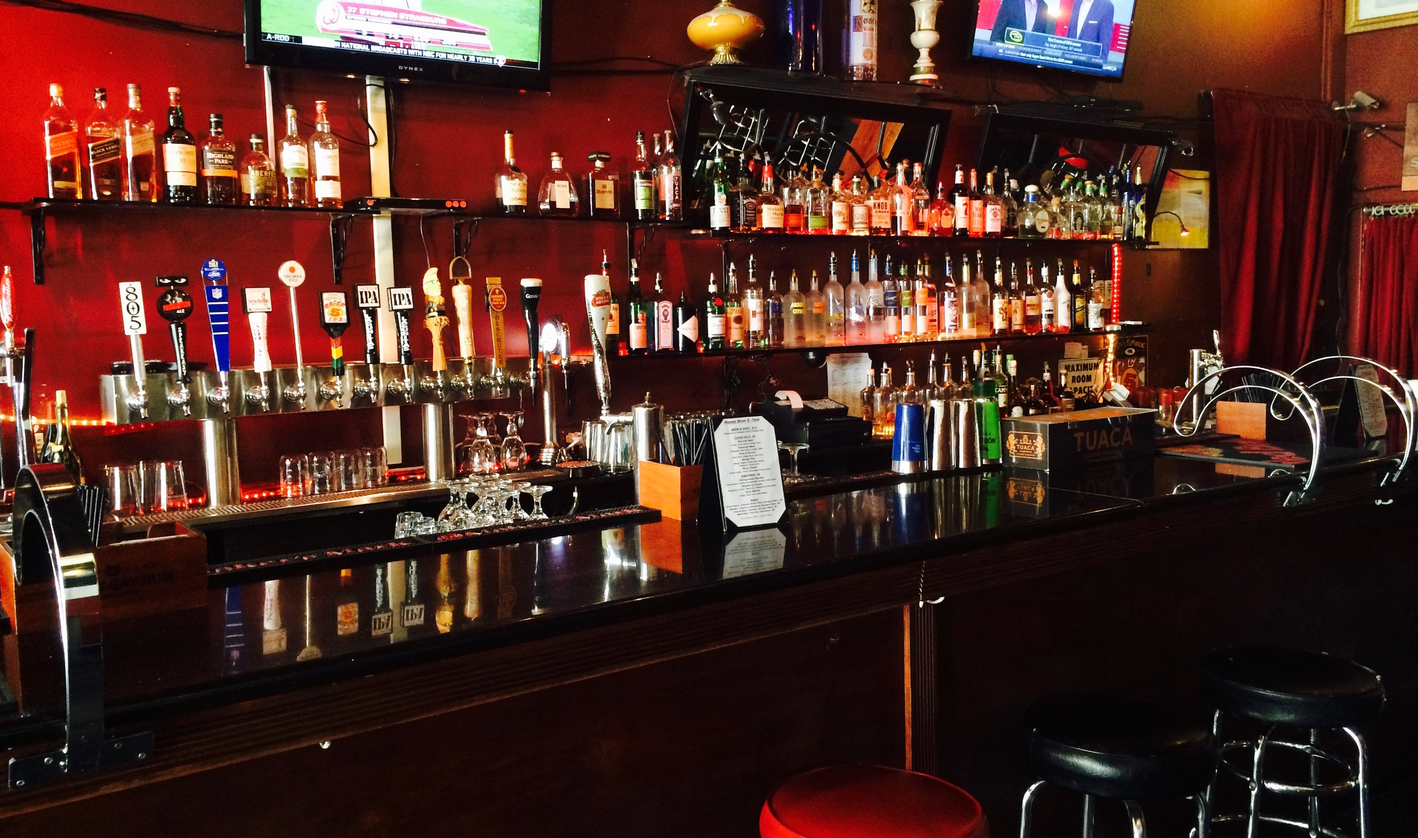
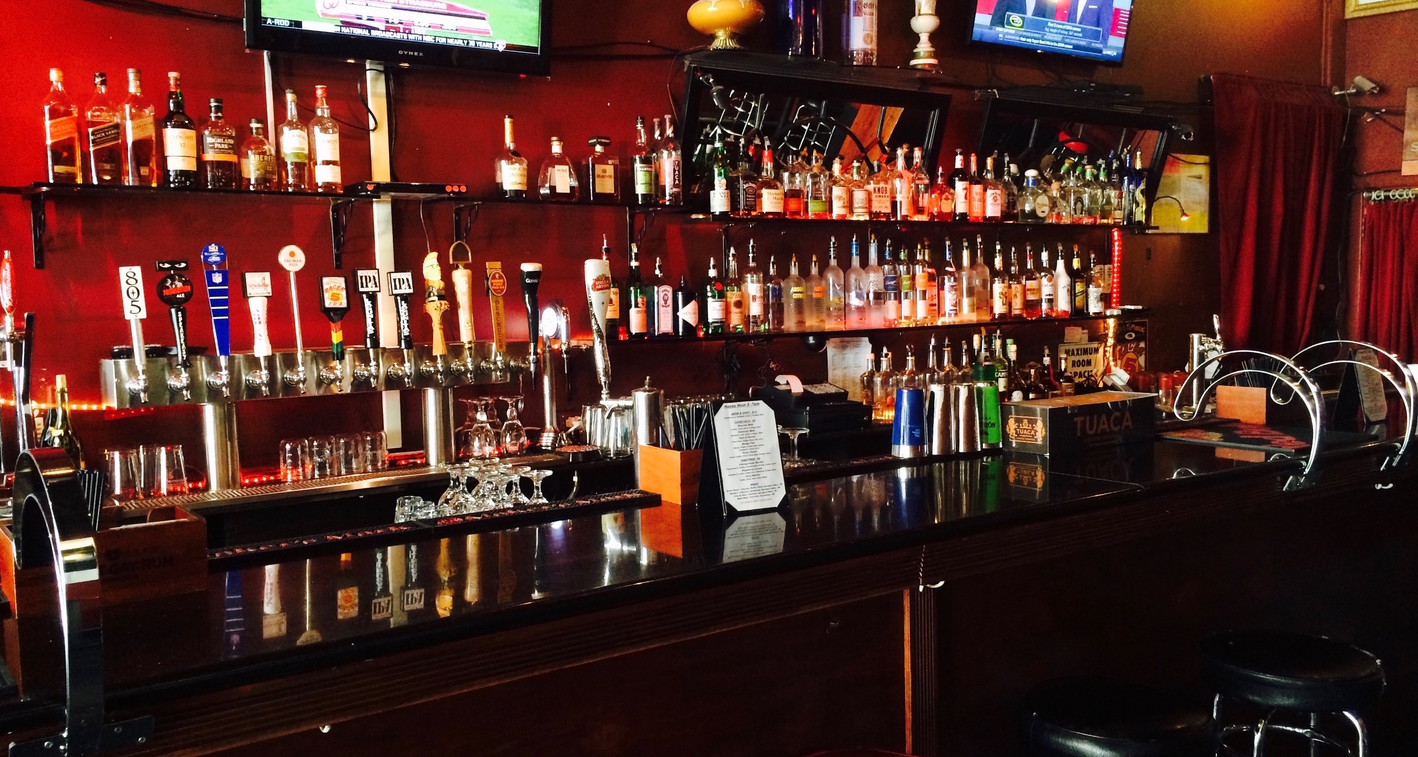
Add slider

diff --git a/app/assets/stylesheets/custom.css.scss b/app/assets/stylesheets/custom.css.scss
@@ -390,12 +390,12 @@ input[type='time'] {
       font-size: 2em;
   }
 
-  .jumbotron {
-    background: image-url("home_drinks.jpg");
-    background-repeat: no-repeat;
-    min-height: 200px;
+  .slide {
+    max-height: 200px;
     width: 100%;
-    background-size: 100% 100%;
+  }
+  .carousel{
+height: 200px;
   }
 
   section .row img {
